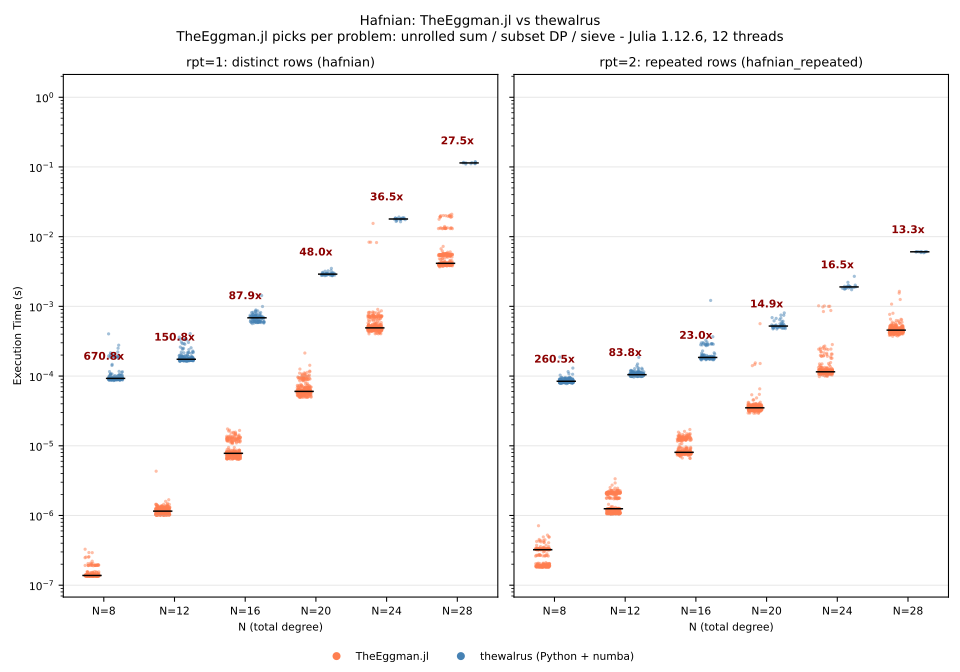
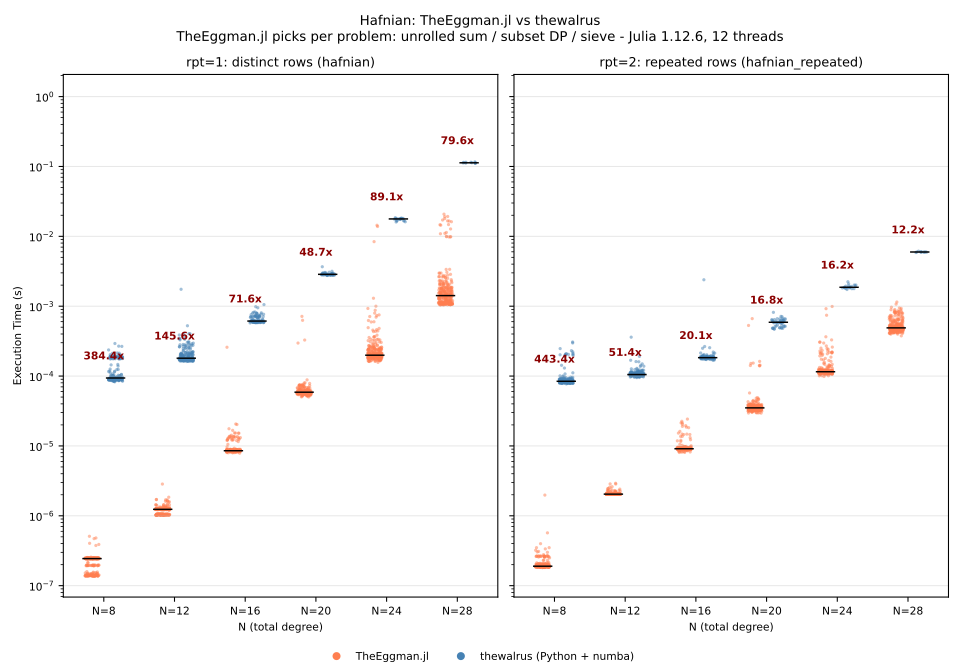
parallelize DP

diff --git a/README.md b/README.md
@@ -49,10 +49,15 @@ are constrained to `F(K+1)` of them — a Fibonacci number, so the state space g
 | sieve work     | 106k | 1.0M  | 7.9M  | 54M    | 393M    |
 
 The subset structure depends only on the degree, so it is precomputed once per `K` into a cached
-plan and the evaluation is a flat CSR walk with no hashing or bitmask arithmetic. Single-threaded,
-this beats the 12-thread sieve by 4–21×. Plans cost roughly 8 bytes per transition and are built on
-first use: 0.7 MB / 3 ms at `N = 20`, 48 MB / 250 ms at `N = 28`, then cached for the session.
-`DP_MAX` is where that stops being reasonable.
+plan, and the evaluation is a flat CSR walk with no hashing or bitmask arithmetic — each transition
+one packed `Int32`. Levels are evaluated in order and split across tasks within a level, where the
+states are mutually independent; results are bit-identical regardless of thread count. Plans cost
+4 bytes per transition and are built on first use: 0.4 MB / 3 ms at `N = 20`, 24 MB / 250 ms at
+`N = 28`, then cached for the session. `DP_MAX` is where that stops being reasonable.
+
+Parallel scaling tops out near 4× on 12 threads rather than approaching the thread count: two
+indirect loads per multiply make the loop memory-bound once several cores are running. Degrees below
+`N ≈ 20` run serially, where the levels are too small to repay a spawn.
 
 **`:sieve` — everything else.** The `O(N³ 2^(N/2))` finite-difference sieve of
 [Björklund, Gupt & Quesada](https://arxiv.org/abs/2108.01622), the algorithm `thewalrus` uses. It is
@@ -96,17 +101,18 @@ On a 12-thread i7-1365U, median speedup over `thewalrus` at total degree `N`:
 
 | N  | `hafnian` (distinct rows) | `hafnian_repeated` (rpt = 2) |
 |----|---------------------------|------------------------------|
-| 8  | 626x                      | 301x                         |
-| 12 | 88x                       | 49x                          |
-| 16 | 77x                       | 23x                          |
-| 20 | 46x                       | 14x                          |
-| 24 | 35x                       | 17x                          |
-| 28 | 27x                       | 10x                          |
+| 8  | 388x                      | 418x                         |
+| 12 | 138x                      | 72x                          |
+| 16 | 67x                       | 19x                          |
+| 20 | 54x                       | 21x                          |
+| 24 | 92x                       | 15x                          |
+| 28 | 72x                       | 13x                          |
 
 The `hafnian` column is unrolled at N=8/12 and DP above; the `hafnian_repeated` column falls back to
 the sieve from N=20 on, where repetition has made it the cheapest option, so those entries are
 sieve-vs-sieve.
 
 Both libraries use every core, so these are wall-clock ratios on a thermally-constrained laptop and
-the run-to-run spread is wide. Timings exclude one-time warmup on both sides — numba's JIT for
-thewalrus, DP plan construction for TheEggman.jl.
+the run-to-run spread is wide — treat the exact multipliers as indicative and the ordering as the
+stable part. Timings exclude one-time warmup on both sides: numba's JIT for thewalrus, DP plan
+construction for TheEggman.jl.
